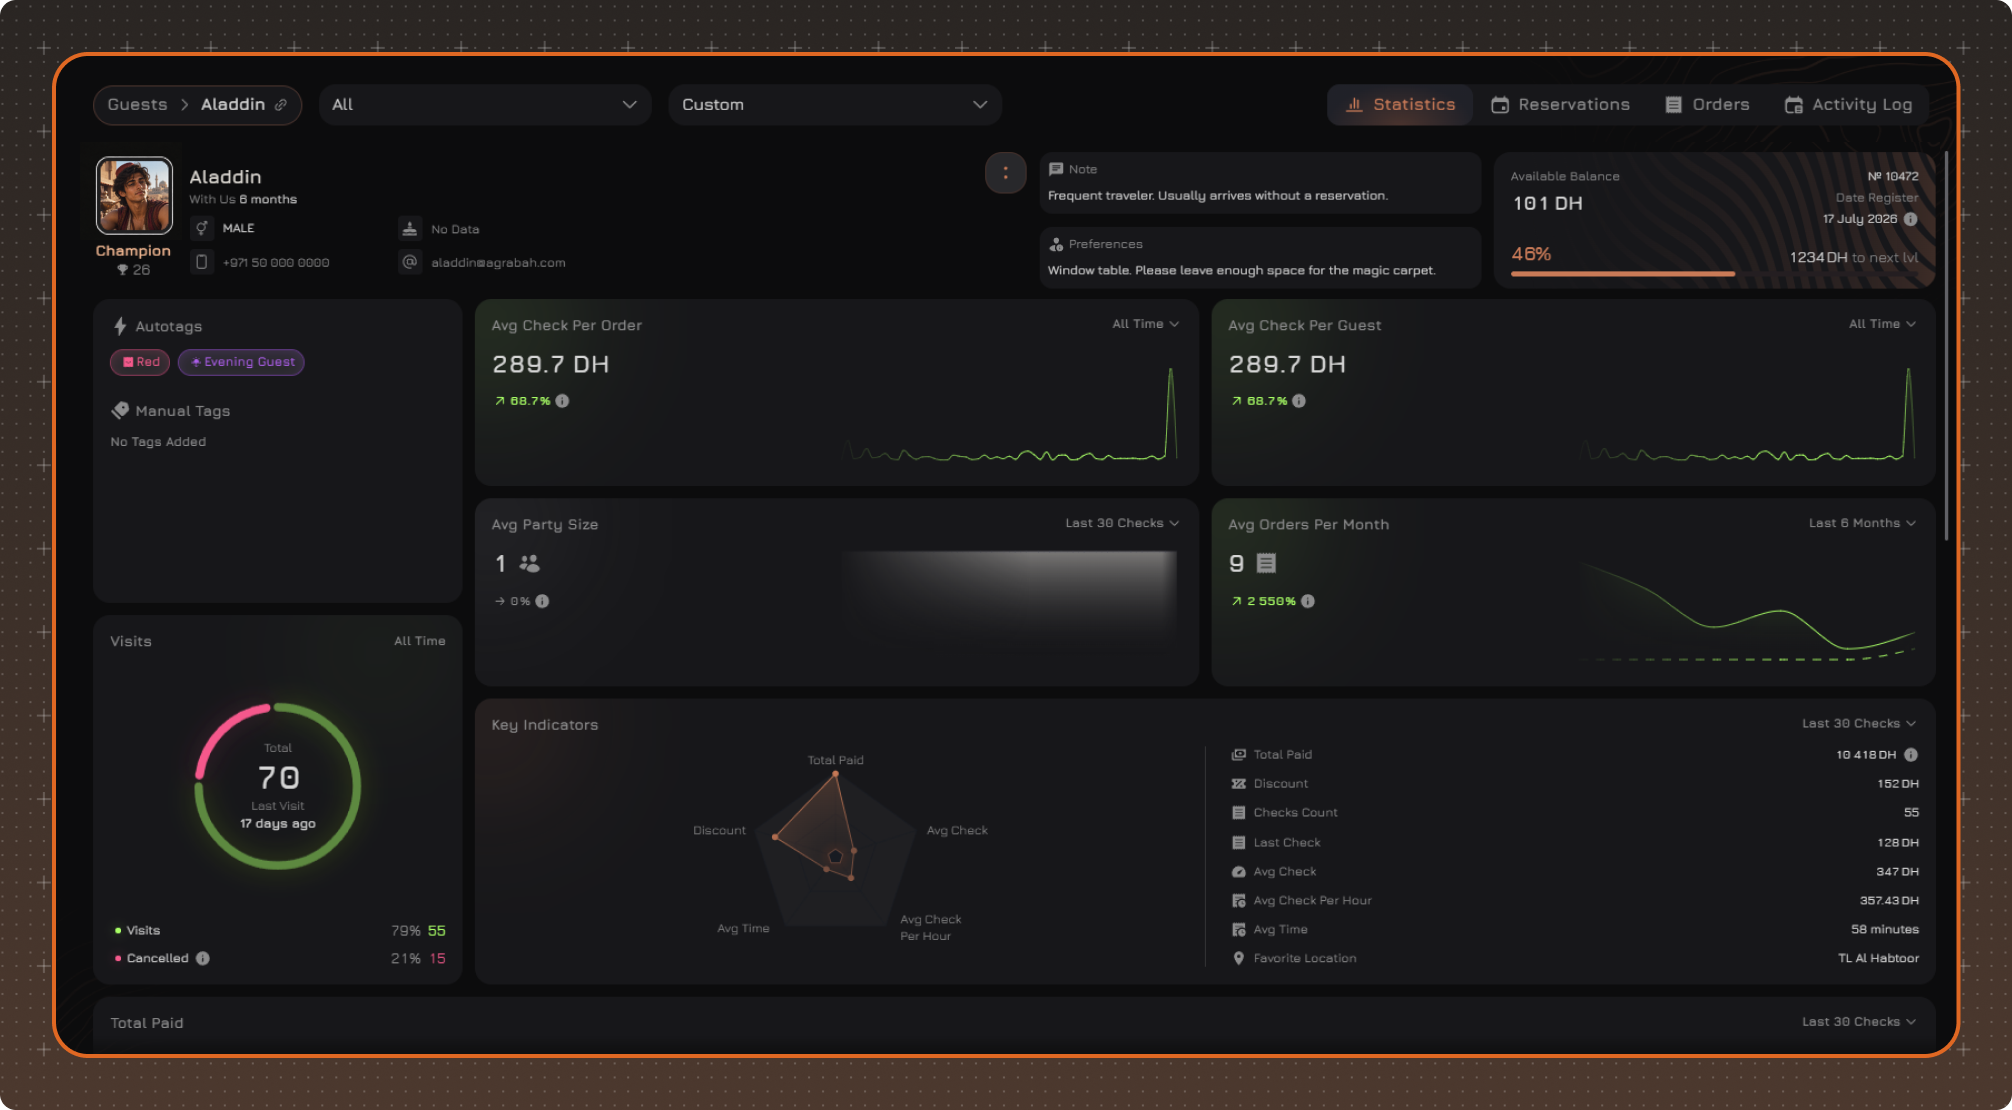
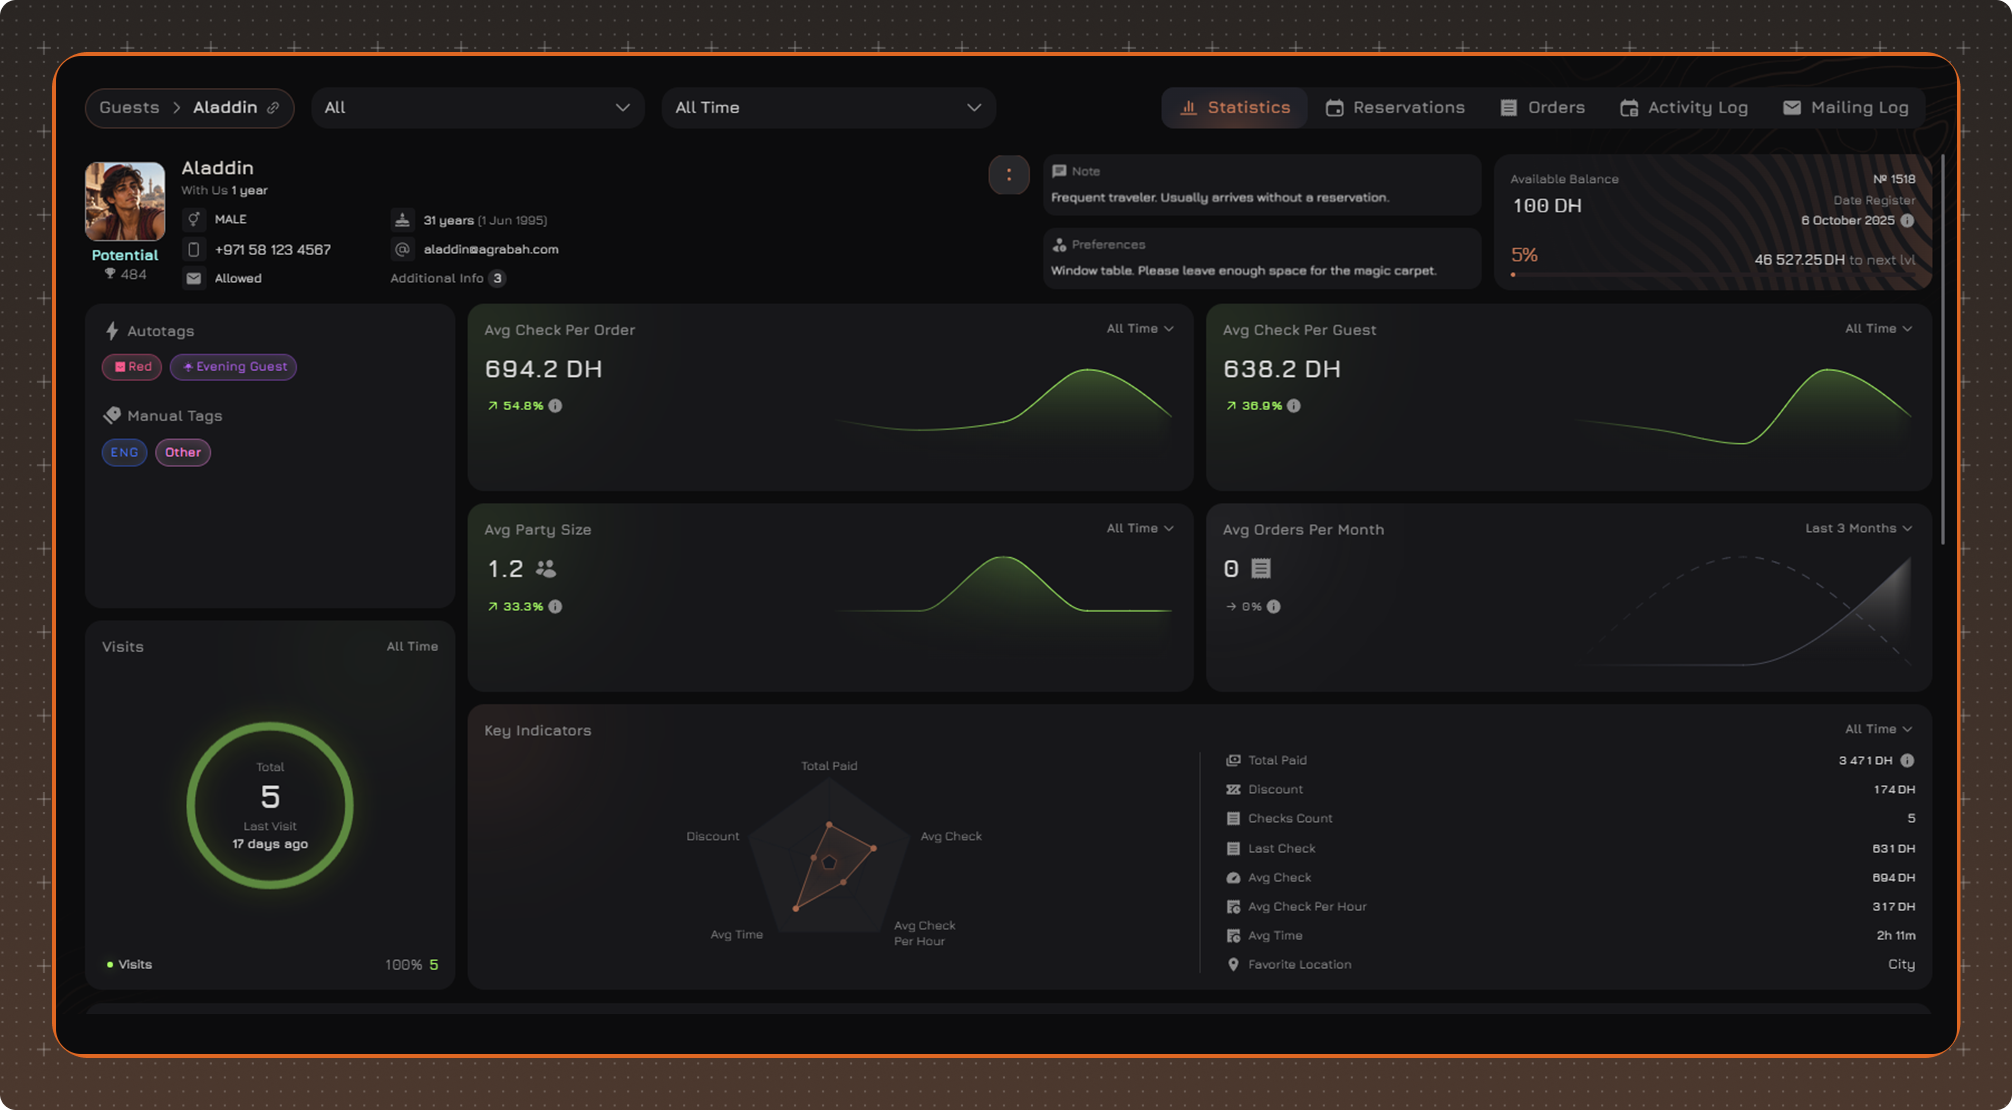
Guests: guest profile - EN screenshots and fifth tab (CIMP-314)

diff --git a/content/en/marketing/guests/3.guests-statistics.md b/content/en/marketing/guests/3.guests-statistics.md
@@ -25,14 +25,13 @@ To open a guest profile:
 
 [[delimiter rows=1]]
 
-The guest profile consists of four tabs:
+The guest profile consists of five tabs:
 
 ✔ Statistics  
 ✔ Reservations  
 ✔ Orders  
-✔ Activity Log
-
-> **Note.** When the window is narrow, tab names may be replaced with icons.
+✔ Activity Log  
+✔ Mailing Log
 
 
 ### Data Filtering
@@ -115,7 +114,7 @@ For more information, see the **[RFM](/en/marketing/rfm/)** page.
 
 [[delimiter rows=1]]
 
-The **Note** widget contains two independent fields:
+The **Note** widget in the profile header contains two independent fields:
 
 ✔ **Note** — used to store general information about the guest and displayed only in the guest profile
 
